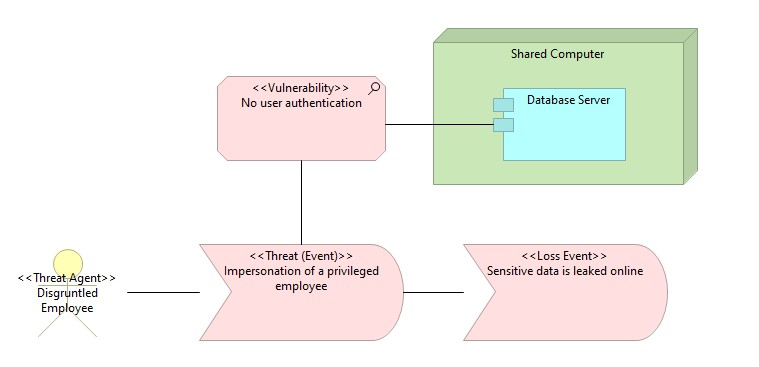
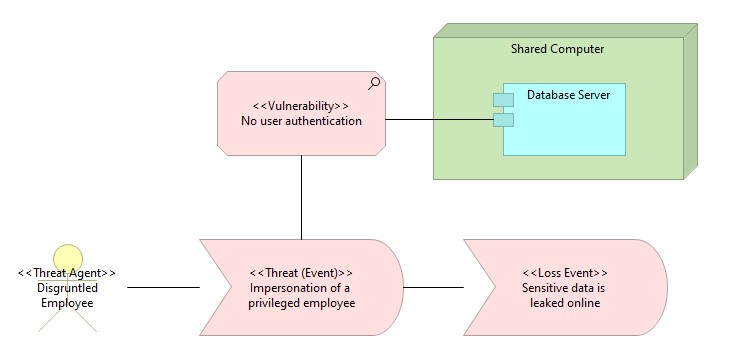
at controls

diff --git a/architecture-layer/technique-archimate/risk-and-security-overlay.md b/architecture-layer/technique-archimate/risk-and-security-overlay.md
@@ -3,15 +3,11 @@
 The ArchiMate standard explicitly defined itself to be extensible. 
 One of the main building blocks to support this goal is the ability for individuals to develop ArchiMate "overlays"; 
 extended specifications of ArchiMate using basic ArchiMate building blocks to allow for more expressiveness.
-An example of such an overlay is especially important for threat modeling: the ArchiMate risk and security overlay. [[1]](#references)
+An example of such an overlay is especially important for threat modeling: the ArchiMate risk and security overlay. [[1]](#references) [2](#references)
 
-This chapter will outline the theoretical foundation, main building blocks as well as practical examples of the overlay.
-In what follows we will introduce each individual risk management concept and how it is mapped to the ArchiMate standard. Note: this entire sub-chapter includes definitions and concepts directly from the risk and security overlay whitepaper. However, this white paper was written about risk management at a higher level, not specifically cyber security threat modelling. We will therefore focus more on the relevant components.
-See table for more definitions.
+This chapter will outline the theoretical foundation, main building blocks as well as practical examples of the overlay. In what follows we will introduce each individual risk management concept and how it is mapped to the ArchiMate standard. In the next sections an overview table of all these components can be found, use this as reference for any definitions that might be unclear.
 
 ## Mapping Risk and Security concepts to ArchiMate
-
-**These definitions and mappings are near identical copies (including language)** of those found in the whitepaper. Sometimes slightly adjusted or amended to focus more on threat modelling instead of risk management. Note many of the mappings can be done through specialization.
 
 ### Risk
 
@@ -39,22 +35,18 @@ Anything (tangible or intangible) capable of being owned or controlled to produc
 #### Vulnerability
 
 A **vulnerability** within cyber security contexts can be defined as a weakness that allows an attacker to threaten the value of an asset. An _assessment_ can be used to model these, either by seeing a vulnerability as a specialization of an assessment or as a specific attribute. However typically vulnerabilities aren't modelled themselves. In an architectural model, known vulnerabilities should be scarce. The focus should lie on threats.
+See the example above for an example of how to model a vulnerability.
 
 ### Domain
 
-A **domain** is a set of related entities that share one or more characteristics and defines the semantic of a specific field. A couple of specific domains will be defined further down. Domains can be mapped to the ArchiMate grouping element.
-
-A **security domain** groups assets with the same security level that fall under the jurisdiction of one security policy.
-
-A **risk management domain** is a group
-
-**Mitigation domains** group together assets amd actions that together mitigate risk in one or more risk management domains. Risk and mitigation domains are concepts more closely associated with risk management than threat modelling.
-
-_**Note:**_ In practice defining a security domain is tricky. Recently trends such as zero-trust and defense-in-depth have only made it even more important to be very clear on your own... In general applying domains at the abstract and defining yourself.... Because of this we included a short chapter which explores how this can be done in practice.
+**Domains** can be mapped to the ArchiMate grouping element.
+**Security domain**, **risk management domain**, and **mitigation domain** are all examples of specific security domains that could be modelled.
+Often, domains are initially copied from the business before becoming more specialized in later threat modeling iterations.
+_**Note:**_ In practice defining a security domain is tricky. Recently trends such as zero-trust and defense-in-depth have only made it even more important to be very careful in going about this.
 
 ### Controls
 
-**Risk Control**, **Treatment**, **Mitigation** are the deployment of a set of security services to protect against a security threat. Reducing a threat, a vulnerability or an attack by eliminating or preventing it, by minimizing the harm it can cause, or by discovering and reporting it so other action can be taken. Depending on the kind of action, nearly _any core element or combination_ thereof can be used to model it. A grouping can also be used to form a control of several different sub-components.
+**Risk Control**, **Treatment**, **Mitigation** can nearly all, depending on the kind of action, be modelled with  _any core element or combination_ thereof. A grouping can also be used to form a control of several different sub-components.
 
 _**TODO: Add picture of examples + maybe a grouping**_
 
